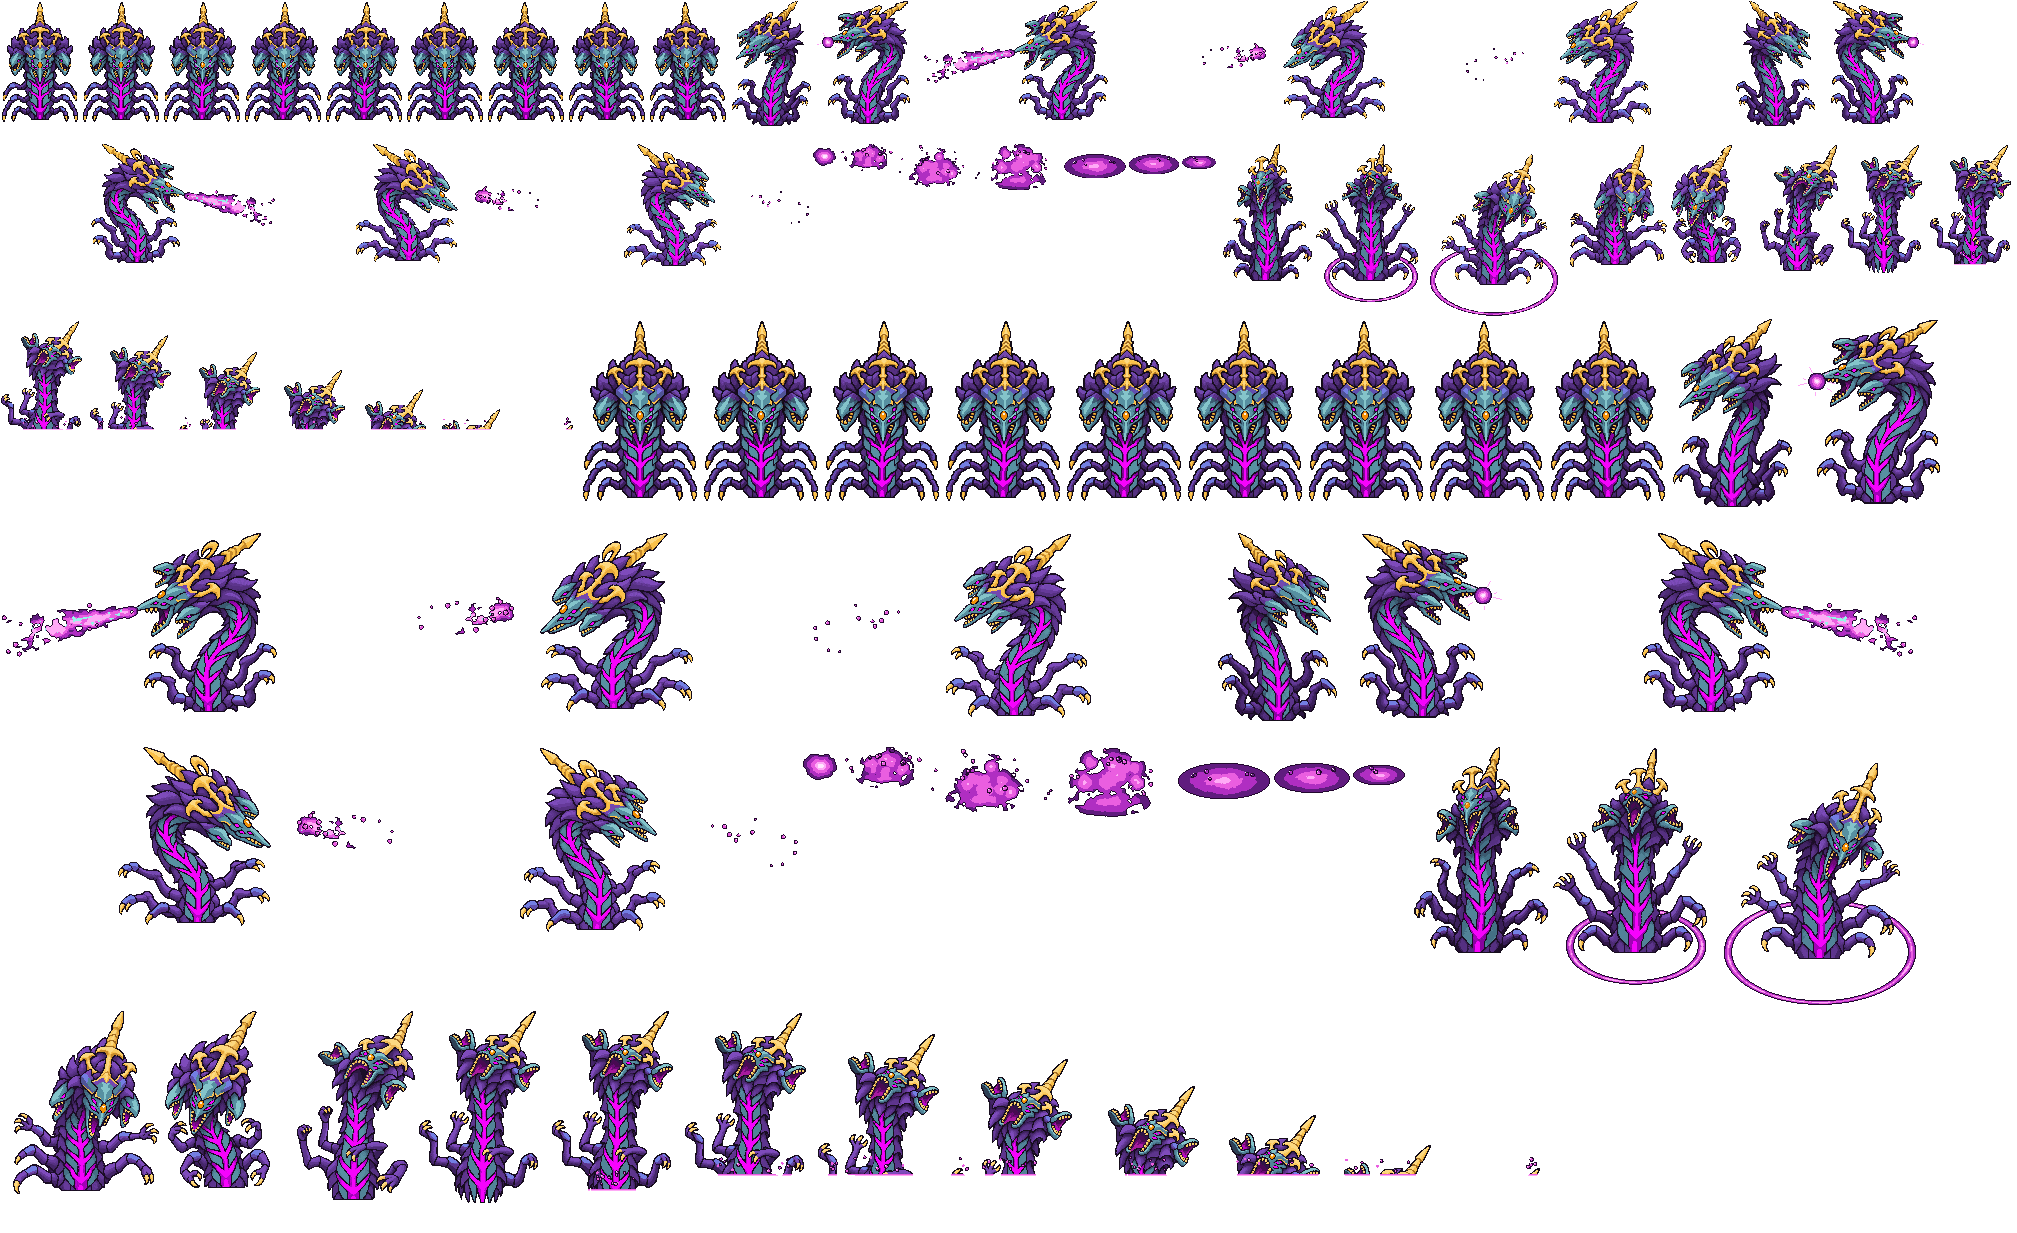
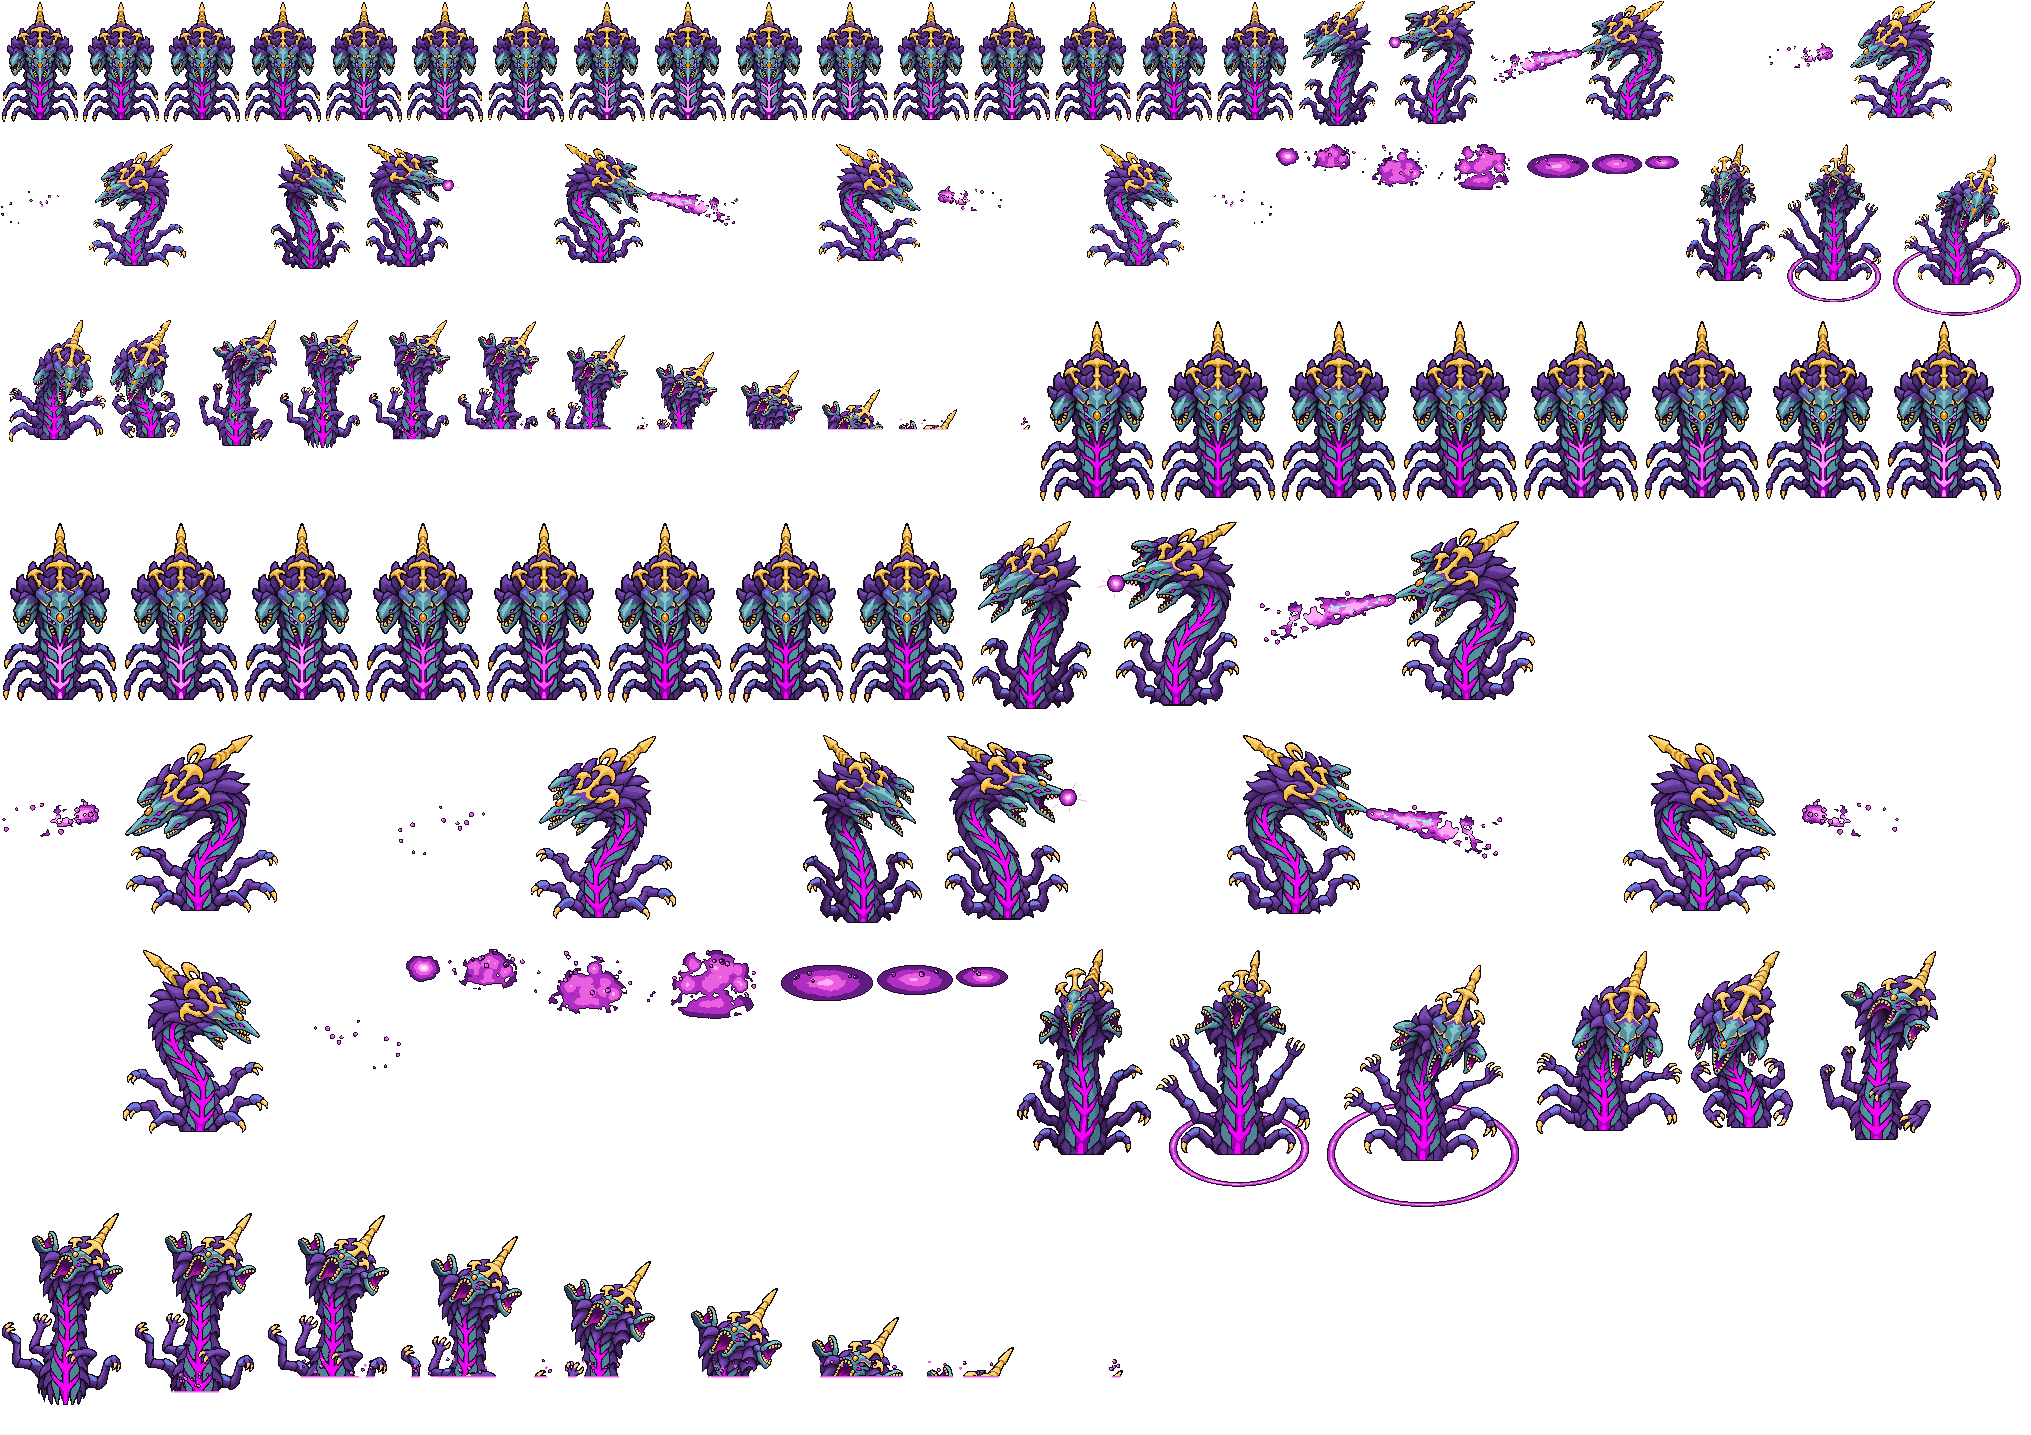
大小龙 0.3.2：男爵待机不再变形——身体不动，腿爪抬放、光纹呼吸
用户：「大龙左右晃动模型变形啊」。0.3.0 的左右摇摆是一行行错开，头和角被拉斜。现在男爵的身体、三个头、角一格都不动：六条带爪的腿
轻轻抬放（腿根钉住，爪尖最多抬 3 格，缓入缓出，右边比左边晚四分之一拍），背上和眼睛的紫红光纹一明一暗像在呼吸（只换颜色）；16 帧共 1.6 秒。

diff --git a/tools/art/dragons_hd.py b/tools/art/dragons_hd.py
@@ -26,7 +26,7 @@ anchor the game draws it on (a frame's centre), dense W = PPU x the 1x w exactly
    main body put on the ground line (the lying frames were drawn 19 squares high), dead_6 at dead_5's height; dead 7 =
    dead_6 breaking into shards, dead 8 empty (as native). Attack frames 2-5 get the breath dragon_fx.py draws (gathering
    in the jaws, poured onto the ground in front of the feet, the blast there, the element's shockwave round the drake).
-3. Baron: base = the design; idle = he sways (sway); attack_left and dead 1-7 = Codex's, each frame's magenta spine
+3. Baron: base = the design; idle = his legs flexing and his seams glowing (baron_idle); attack_left and dead 1-7 = Codex's, each frame's magenta spine
    over the design's and its bottom on the pit line, nothing under the line; attack frames 2-5 get the acid he spits at
    the side he bites (dragon_fx.spit), attack_right = attack_left mirrored (the design is symmetric); dead 2-3 a shock
    ring as he screams, 8-15 = dead_7 slumping back into the pit (dragon_fx.sink), 16 empty; the target effect = the acid
@@ -347,19 +347,56 @@ def drake_frames(model):
     return tags, meta
 
 
-# Baron's idle: he sways (the user, 2026-11-10: 「大龙的动作也是上下摆动 很僵硬」 - 0.2 sank him 0 / 2 / 4 / 2 squares
-# into the pit): each row shifted sideways by its height over the pit, the top BARON_SWAY squares, the pit line still
-BARON_SWAY = (0, 1, 2, 3, 4, 4, 3, 2, 1, 0, -1, -2, -3, -4, -4, -3, -2, -1)
+# Baron's idle (the user, 2026-11-10: 「大龙的动作也是上下摆动 很僵硬」 - 0.2 sank him 0 / 2 / 4 / 2 squares into the
+# pit; then 「大龙左右晃动模型变形啊」 - 0.3.0's sway sheared the rows, slanting his heads and horn): his body, heads and
+# horn never move; his six clawed legs flex (each leg's root by the body pinned, its claw lifted up to ARM_LIFT squares,
+# eased, the right legs a quarter of the cycle behind the left), and the magenta seams on his back and his eyes glow
+# brighter and fade like breathing (the palette's magentas swapped for lighter ones, no pixel moved)
+BARON_IDLE_N = 16                 # frames (100 ms each)
+ARM_BAND = 24                     # squares either side of his middle that are his body (the legs start outside it)
+ARM_TOP = 56                      # squares over the pit line where his legs start (above it: his heads)
+ARM_LIFT = 3.0                    # squares a claw tip rises at most
+GLOW = {   # Codex's magentas -> a step lighter, two steps lighter
+    (246, 3, 252): ((250, 84, 252), (255, 150, 255)),
+    (219, 6, 233): ((240, 40, 246), (250, 92, 252)),
+    (186, 3, 202): ((214, 10, 228), (232, 32, 240)),
+    (161, 2, 182): ((186, 4, 204), (206, 8, 222)),
+}
 
 
-def sway(d, a, pit):
-    """d with its rows shifted sideways: row y by a x (pit - y) / (pit - top), the pit row not at all"""
-    ys = np.nonzero(d[..., 3].any(1))[0]
-    top = ys.min()
-    out = np.zeros_like(d)
-    for y in range(top, pit + 1):
-        k = int(round(a * (pit - y) / max(1, pit - top)))
-        out[y] = np.roll(d[y], k, axis=0) if k else d[y]
+def baron_idle(d, pit, k):
+    """idle frame k of BARON_IDLE_N: the legs lifted (column by column, the further from his body the more), the glow"""
+    n = BARON_IDLE_N
+    on = d[..., 3] > 0
+    ys, xs = np.nonzero(on)
+    cx = (xs.min() + xs.max() + 1) / 2
+    out = d.copy()
+    for side, lag in ((-1, 0.0), (1, 0.25)):
+        ease = 0.5 - 0.5 * np.cos(2 * np.pi * ((k / n - lag) % 1.0))
+        inner = cx + side * ARM_BAND
+        reach = abs((xs.min() if side < 0 else xs.max()) - inner)
+        for x in range(d.shape[1]):
+            off = (inner - x) * -side
+            if off <= 0:
+                continue
+            lift = int(round(ARM_LIFT * ease * (off / reach) ** 0.9))
+            if lift == 0:
+                continue
+            col = d[:, x].copy()
+            arm = np.zeros(d.shape[0], bool)
+            arm[pit - ARM_TOP:pit + 1] = on[pit - ARM_TOP:pit + 1, x]
+            new = col.copy()
+            new[arm] = 0
+            yy = np.nonzero(arm)[0]
+            new[yy - lift] = col[yy]
+            out[:, x] = new
+    p = 0.5 - 0.5 * np.cos(2 * np.pi * k / n)
+    level = 0 if p < 0.35 else (1 if p < 0.75 else 2)
+    if level:
+        rgb = out[..., :3]
+        for src, steps in GLOW.items():
+            m = (out[..., 3] > 0) & np.all(rgb == np.array(src, np.uint8), axis=-1)
+            rgb[m] = steps[level - 1]
     return out
 
 
@@ -369,7 +406,7 @@ def baron_frames():
     pit = ys.max()                                    # the pit line's last row
     sx0 = spine_x(d)
     tags = {"base": [d]}
-    tags["idle"] = [sway(d, a, pit) for a in BARON_SWAY]
+    tags["idle"] = [baron_idle(d, pit, k) for k in range(BARON_IDLE_N)]
     al, notes = [], {}
     for k in range(1, 6):
         a = READ[BARON][f"attack_left_{k}"]
@@ -516,7 +553,7 @@ def one_x(dense, ppu, w1, h1):
 
 
 DRAKE_MS = {"idle": [110] * 8, "dead": [100, 110, 120, 150, 240, 240, 180, 120]}
-BARON_MS = {"idle": [90] * 18,
+BARON_MS = {"idle": [100] * BARON_IDLE_N,
             "dead": [90, 110, 100, 100, 110, 130, 170] + [90] * 7 + [100] + [60]}   # 1.6 s: the poses, the sinking, nothing
 DURATIONS = {"idle": 160, "base": 100, "attack": 80, "attack_left": 80, "attack_right": 80, "attack_target_effect": 60}
 

diff --git a/addons/league_dragons/README.md b/addons/league_dragons/README.md
@@ -226,7 +226,7 @@ base、attack 5 × 80、dead 8 × 80；莫尔加德另有 attack_left / attack_r
 - 攻击：英雄联盟的普攻只动脖子、头和下巴，所以攻击帧是设计图本身，只有 Codex 画的头颈和喷出的元素那一块换上去（Codex 每帧把整个身子
   都重画了，直接用会一闪一闪）；死亡帧照 Codex 的（躺下的几帧它画高了 19 格，压回地面），最后碎成块消散；男爵每帧按洋红的脊线对齐、
   底边压在坑口线上，向右攻击是向左的镜像。
-- 待机（v0.3.0 改，用户：「小龙上下摆动会造成模型变形」「大龙的动作也是上下摆动 很僵硬」）：小龙身体、头、腿不动，翅膀扇动（翅根钉住，翅尖抬 0→3→0 格，8 帧缓入缓出）；男爵坑口不动，往上越高摆得越多，左右摇摆 ±4 格（18 帧）。
+- 待机（v0.3.0 改，用户：「小龙上下摆动会造成模型变形」「大龙的动作也是上下摆动 很僵硬」；v0.3.2 又改男爵，用户：「大龙左右晃动模型变形啊」——0.3.0 的左右摇摆是一行行错开，头和角被拉斜）：小龙身体、头、腿不动，翅膀扇动（翅根钉住，翅尖抬 0→3→0 格，8 帧缓入缓出）；男爵身体、三个头、角一格都不动，六条带爪的腿轻轻抬放（腿根钉住，爪尖最多抬 3 格，缓入缓出，右边比左边晚四分之一拍），背上和眼睛的紫红光纹一明一暗像在呼吸（只换颜色，16 帧共 1.6 秒）。
 - 攻击特效（v0.3.0，用户：「攻击特效看起来好像没有」，又「小龙攻击的时候火焰不够大啊 看不出来在攻击」「大龙 远古龙应该也是 看不出
   喷射的火焰」——Codex 画的吐息只是胸口一小团）：`tools/art/dragon_fx.py` 一格一格画的像素特效（几种元素色、深色描边、不半透明）。
   小龙和远古龙：第 2 帧元素在张开的嘴里聚成一团（四周的火星往里收），第 3 帧一大股吐息从低下的头喷到脚前的地上，落地炸开，第 4 帧
